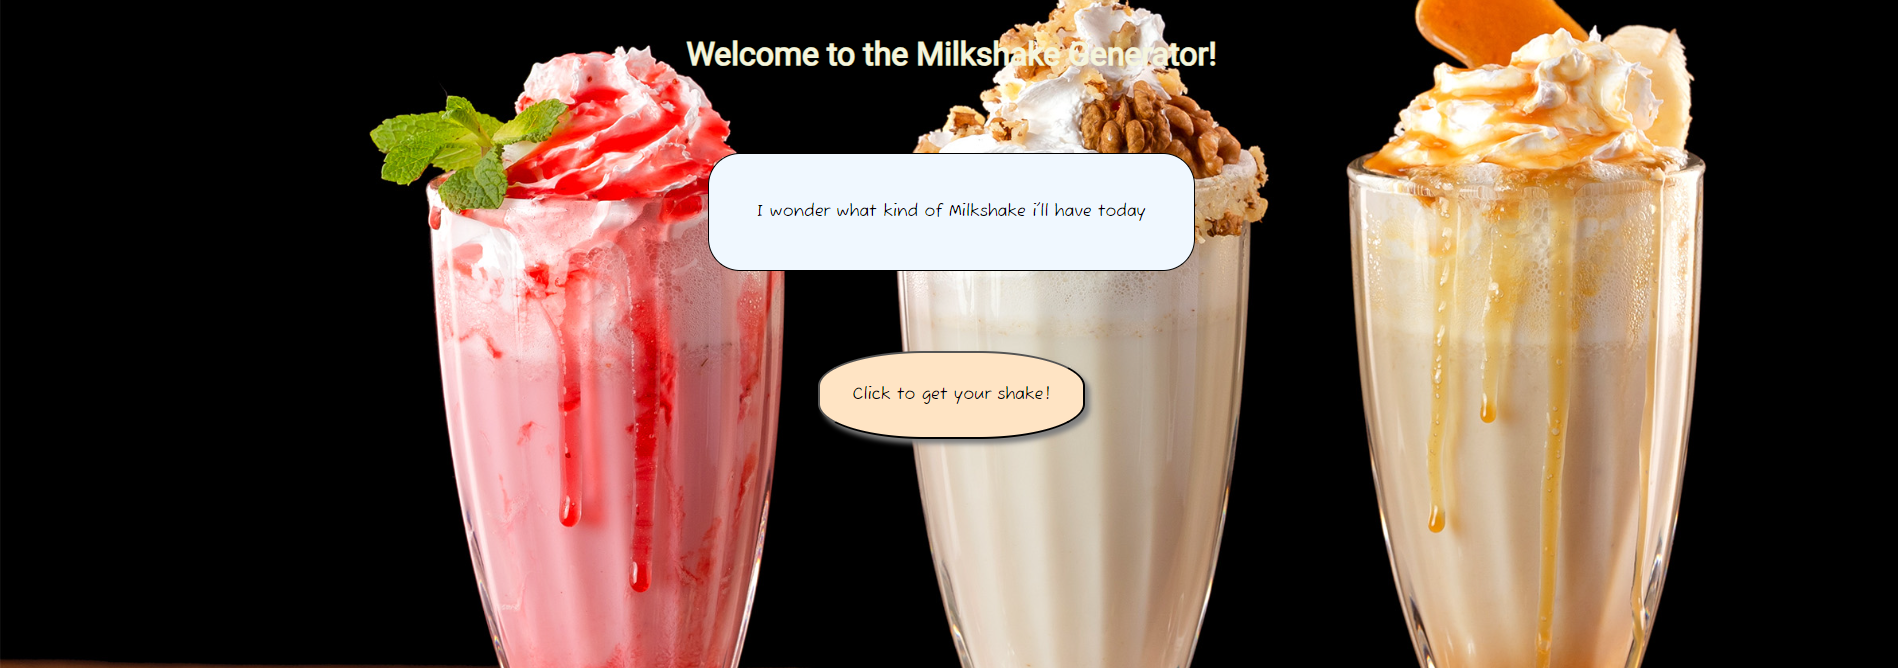
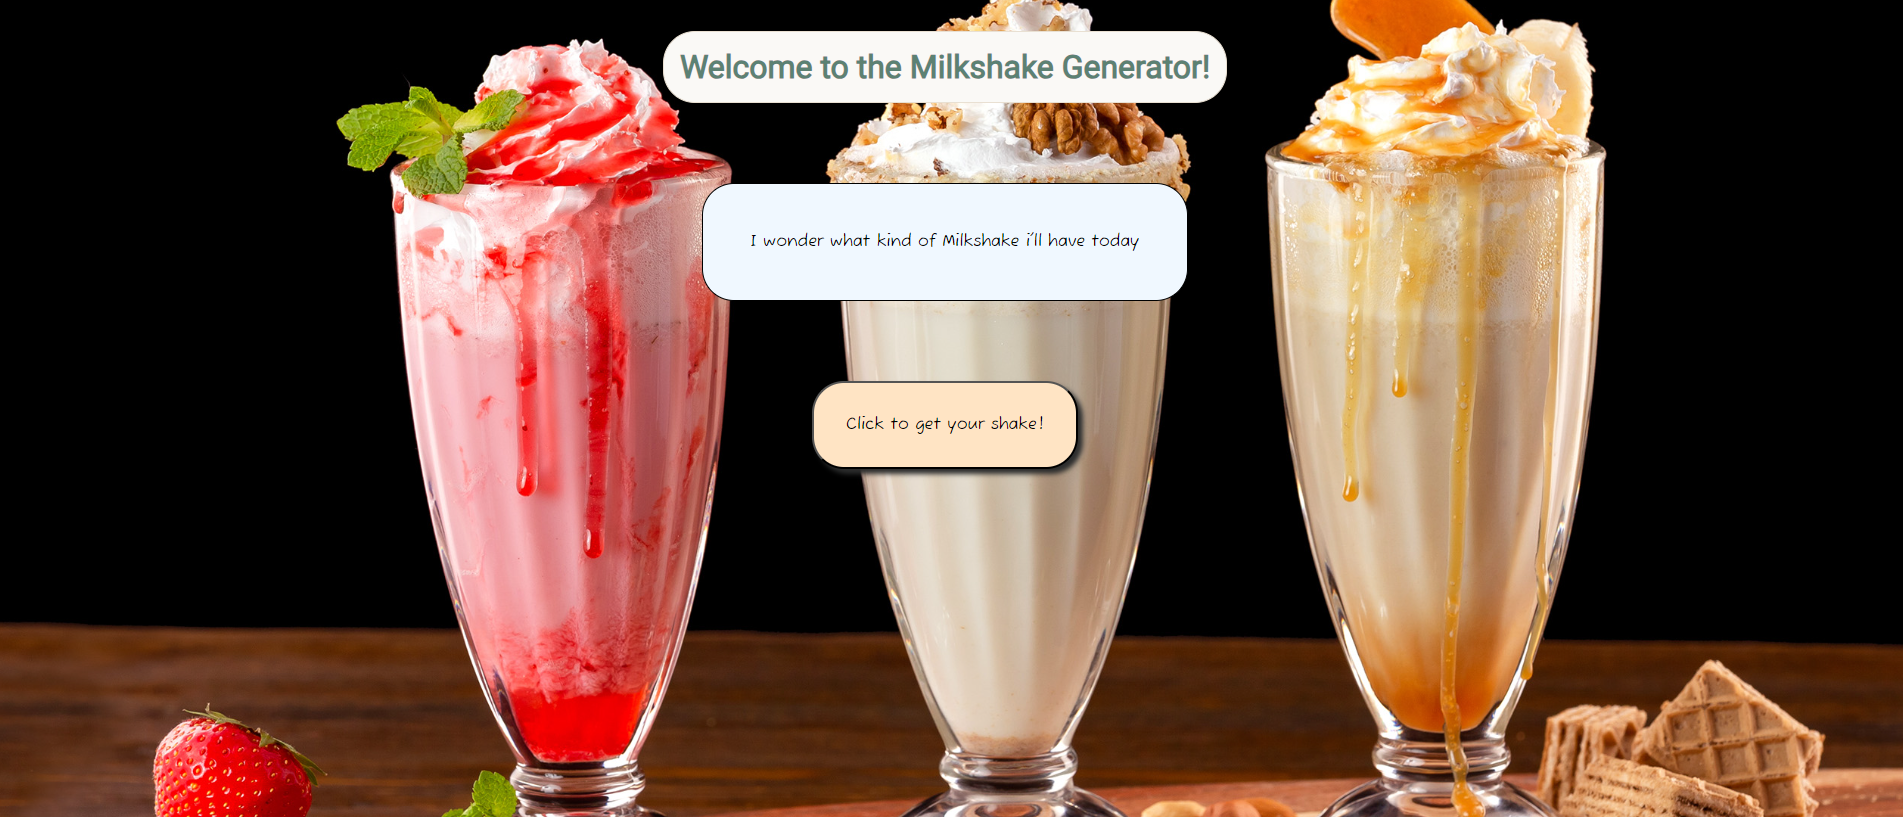
adjusted/added/removed many elements to make website function better

diff --git a/resources/style.css b/resources/style.css
@@ -12,15 +12,20 @@ body {
 }
 
 h1 {
-    text-align: center;
     font-family: Roboto, gerogia;
     color: #5c8173;
-    margin-top: 3rem;
+    margin: 3rem 5rem 0 5rem;
     background-color: #FAF9F6;
-    margin-left: 40rem;
-    margin-right: 40rem;
     border-radius: 2rem;
     padding: 1rem;
+    border: 1px solid #E9E0D2;
+}
+
+.header {
+    display: flex;
+    justify-content: center;
+    text-align: center;
+    align-items: center;
 }
 
 .shake {
@@ -47,7 +52,7 @@ p {
 button {
     background-color: bisque;
     border-radius: 2rem;
-    box-shadow: 5px 5px 5px gray;
+    box-shadow: 5px 5px 5px #2C2D2D;
     font-family: 'Fuzzy Bubbles', georgia;
     margin: auto;
     padding: 2rem;

diff --git a/index.html b/index.html
@@ -12,7 +12,9 @@
     <script src="./script.js" defer></script>
 </head>
 <body>
+    <div class="header">
     <h1>Welcome to the Milkshake Generator!</h1>
+    </div>
 
     <div class="shake">
         <p id="myshake">I wonder what kind of Milkshake i'll have today</p>
